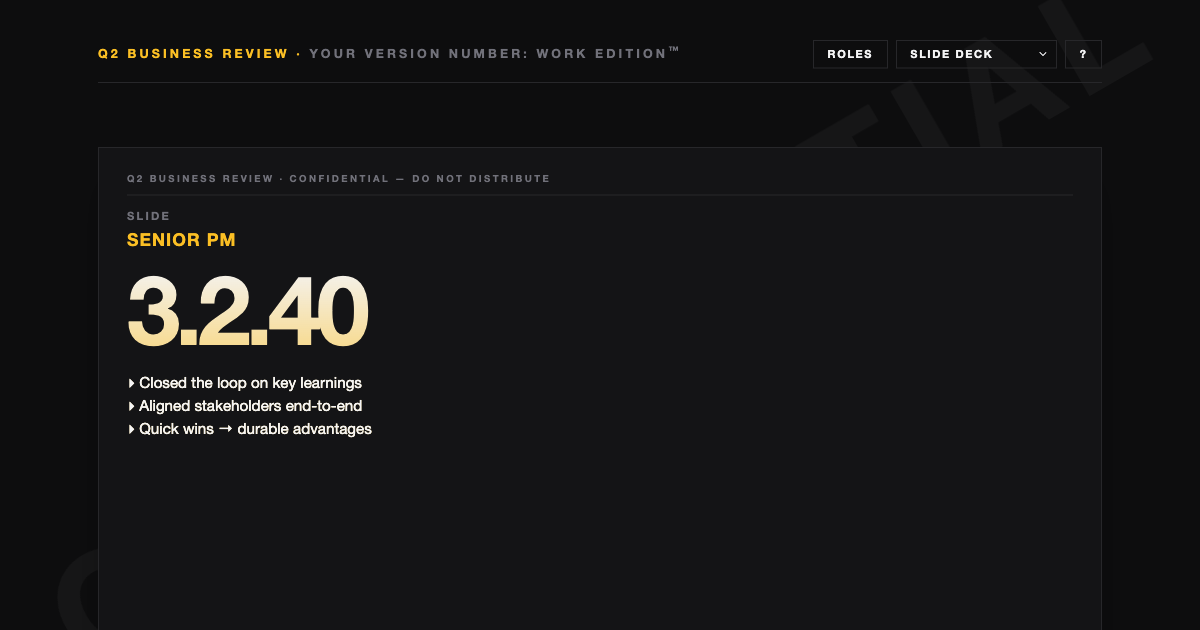
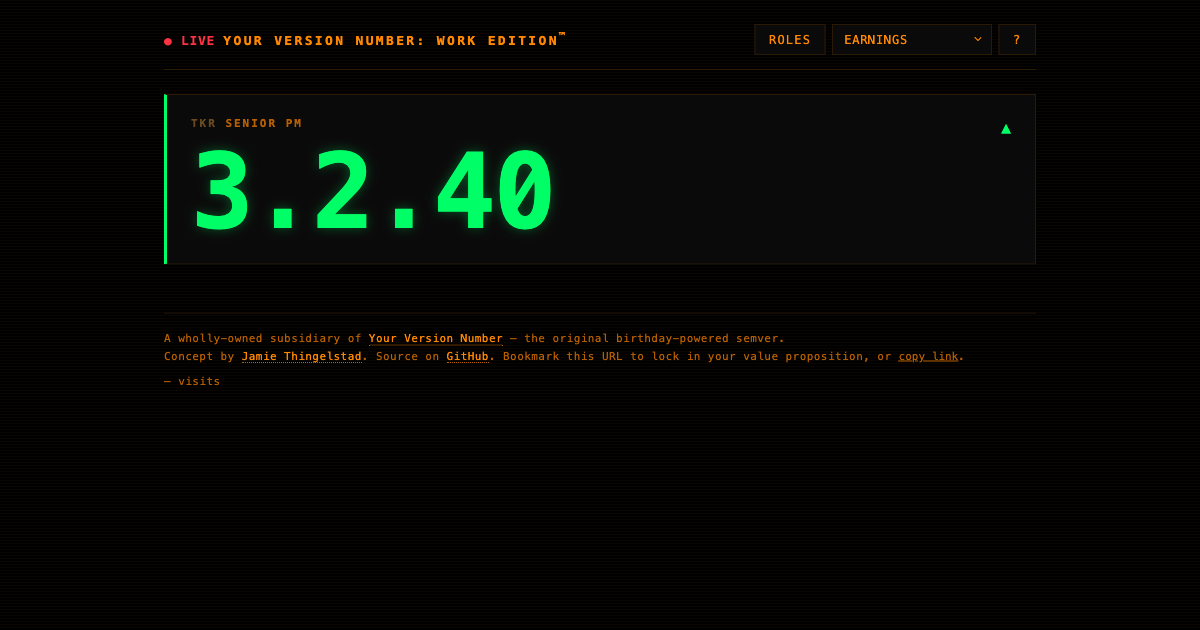
Swap work og-image to earnings (live ticker) theme
Slidedeck was on-message but quiet in social previews; earnings is
black-background CNBC energy with the version number rendered as a
big green stock ticker — much harder to scroll past.

diff --git a/work/index.html b/work/index.html
@@ -14,7 +14,7 @@
 <meta property="og:image" content="https://yourversionnumber.com/work/og-image.png">
 <meta property="og:image:width" content="1200">
 <meta property="og:image:height" content="630">
-<meta property="og:image:alt" content="Q2 business review slide showing version 3.2.40 — years of tenure, quarters in, business days deep.">
+<meta property="og:image:alt" content="A live stock-ticker showing version 3.2.40 — years of tenure, quarters in, business days deep.">
 <meta name="twitter:card" content="summary_large_image">
 <meta name="twitter:title" content="Your Version Number: Work Edition">
 <meta name="twitter:description" content="How long have you worked there, in semver? YEARS.QUARTERS.DAYS = tenure · quarters in · business days deep.">
